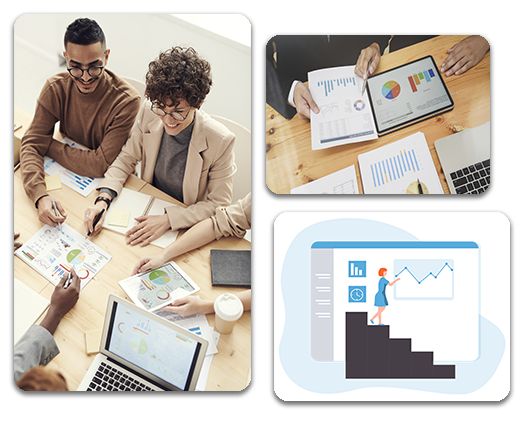
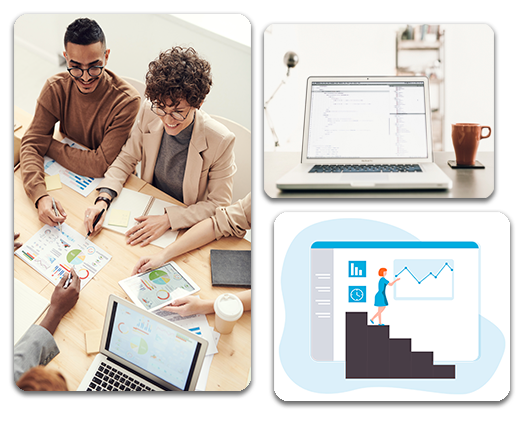
style: :art: Final design adjustments
Case studies page: Fixing pilar logo and applying some adjustments to the cards. Blog page: Fixing datwit logo.  About us page: Fixing the grid for mobile devices.  Services page: Changing image for the Data analysis block, it is the same as one used on Data visualization block right below.  Adding orange accents to the icons on hover for the card reveal section(homepage): front and back.  Adding  orange accent to the float button icon of the team section(homepage).  Add underline decoration on hover for the footer pages. Services page: Adding MD material boxed effect to the diagram. Case studies page: Fixing text distribution(back side) on the cards(Don't fit on smaller devices).

#33

diff --git a/layouts/casestudies/list.html b/layouts/casestudies/list.html
@@ -16,22 +16,26 @@
     </div> <!-------------/first row title----------------------------------------------------->
     <div class="row mr-1 mr-2">
       <!--listed images------------------------------------------------------------------------->
-      <div class="flip-container col s12 m3 l3" ontouchstart="this.classList.toggle('hover');">
       {{ range .Site.Data.product.pgtitle.productItem}}
-        <div class=" card flipper">
-          <div class=" card-image front">
-            <img src="{{ .image | absURL}}" alt="{{.title}}">
-          </div>   
-          <div class="back">
-            <a href=""><h3 class="card-title">{{ .title}}</h3></a>
-            <p class="case-studies-descrip">{{.content}}</p>
-            <div class="product-social">
-              <a href=""><i class="fa fa-2x fa-github"></i></a>
+      <div class=" col s12 m4 l4" id="card-container">
+        <div class="flip-container" ontouchstart="this.classList.toggle('hover');">
+        
+          <div class=" card flipper">
+            <div class=" card-image front">
+              <img src="{{ .image | absURL}}" alt="{{.title}}">
+            </div>   
+            <div class="back">
+              <a href=""><h3 class="card-title">{{ .title}}</h3></a>
+              <p class="case-studies-descrip">{{.content}}</p>
+              <div class="product-social">
+                <a href=""><i class="fa fa-2x fa-github"></i></a>
+              </div>
             </div>
           </div>
+       
         </div>
-      {{ end }} 
-      </div>
+    </div>
+    {{ end }} 
     </div><!--/listed images------------------------>
   </div>
 </section><!--? /products section---------------------------------------------------------------> 

diff --git a/themes/agico-hugo/assets/scss/templates/_card.scss b/themes/agico-hugo/assets/scss/templates/_card.scss
@@ -57,6 +57,15 @@
   h3{
     /* margin-top: 60px; */
     font-weight: bolder !important;
+
+    @media only screen and (max-width: 730px){
+      margin: 10px 0 5px 0;
+      font-size: 20px !important;
+    }
+    @media only screen and (max-width: 600px){
+      margin: 30px 0 10px 0;
+      font-size: 24px !important;
+    }
   }
   .product-social{
       text-align: center;
@@ -74,7 +83,10 @@
 .case-studies-descrip{
     line-height: 18px;
     font-size: 14px;
-    margin: 0 15px 10px 15px;
+    margin: 0 15px 0 15px;
+    @media only screen and (min-width: 601px){
+      margin: 0 10px 0 10px;
+    }  
 }
 
 /********************card reveal goals section homepage*********************************/
@@ -82,6 +94,16 @@
   line-height: 25px !important;
   display:flex !important;
   justify-content:space-between;
+
+  i{
+    &:active{
+      color: $secondary-color2 !important;
+    }
+    &:hover{
+      color: $secondary-color2 !important;
+    }
+  }
+
 }
 
 .card .card-reveal{
@@ -90,6 +112,15 @@
     line-height: 25px !important;
     display:flex !important;
     justify-content:space-between;
+  }
+  
+  i{
+    &:active{
+      color: $secondary-color2 !important;
+    }
+    &:hover{
+      color: $secondary-color2 !important;
+    }
   }
 
 }

diff --git a/layouts/_default/list.html b/layouts/_default/list.html
@@ -78,7 +78,7 @@
           {{ end }}<!-----------/blog post------------------->
 
           {{"<!-- pagination -->" | safeHTML }}
-          <div class="col s12 m12 l12" >
+          <div class="col s12 m12 l12">
             {{ $paginator := .Paginator }}
             <!-- Number of links either side of the current page. -->
             {{ $adjacent_links := 2 }}
@@ -91,6 +91,7 @@
             <!-- If there's more than one page. -->
             {{ if gt $paginator.TotalPages 1 }}
             <nav aria-label="Page navigation" id="pagi">
+              <div id="pagi-navi">
               <ul class="pagination">
                 <!-- First page. -->
                 {{ if ne $paginator.PageNumber 1 }}
@@ -163,6 +164,7 @@
                 </li>
                 {{ end }}
               </ul>
+            </div> 
             </nav>
             {{ end }}
           </div>

diff --git a/themes/agico-hugo/static/plugins/wittylytics/script.js b/themes/agico-hugo/static/plugins/wittylytics/script.js
@@ -54,6 +54,13 @@ document.addEventListener('DOMContentLoaded', function() {
   var instances = M.Slider.init(elems, options);
 });
 
+//material box effect 
+document.addEventListener('DOMContentLoaded', function() {
+  var options = [inDuration = '275'];
+  var elems = document.querySelectorAll('.materialboxed');
+  var instances = M.Materialbox.init(elems, options);
+});
+
 
 /* function changedValue() {
   let text = document.getElementById("textarea1");

diff --git a/themes/agico-hugo/assets/scss/templates/_sec-level-pages.scss b/themes/agico-hugo/assets/scss/templates/_sec-level-pages.scss
@@ -60,10 +60,16 @@
       padding-top: 100px !important;
     }
   }
+#card-container{
+  display: flex;
+  justify-content: center;
+}
 /****************************************about us page********************************************/
 #comp-cont{
+  @media only screen and (min-width: 601px) {
     display: flex;
     align-items: center;
+  } 
 }    
 //github icon company
 .text-reset {

diff --git a/themes/agico-hugo/assets/scss/templates/_navigation.scss b/themes/agico-hugo/assets/scss/templates/_navigation.scss
@@ -231,14 +231,20 @@ margin-top: 5px;
   align-items: center;
   background-color: white;
   box-shadow: none;
-
+ 
   .hover-ripple{
     &:hover{
     background-color:transparent ;
     border-radius: 50% !important;
     }
+  }  
+}
+
+#pagi-navi{
+  @include desktop {
+    display: flex !important;
+    justify-content: center !important;   
   }
-  
 }
 
 

diff --git a/layouts/services/list.html b/layouts/services/list.html
@@ -56,7 +56,7 @@
       <h6 class="mr-2">{{.subtitle}}</h6>
     </div>
     <div><!---------------------------diagram--------------------------------->
-      <img src="{{.img | absURL }}" alt="{{.title}}">
+      <img class="materialboxed" src="{{.img | absURL }}" alt="{{.title}}">
     </div>
     {{end}}
   </div> 

diff --git a/themes/agico-hugo/assets/scss/_buttons.scss b/themes/agico-hugo/assets/scss/_buttons.scss
@@ -62,6 +62,11 @@
 #floatc{
   background-color: $primary-color;
   margin-left: 30px;
+  i{
+    &:hover{
+      color: $secondary-color2;
+    }
+  }
 }
 
 /*********************************banner area ********************************************/

diff --git a/themes/agico-hugo/assets/scss/templates/_footer.scss b/themes/agico-hugo/assets/scss/templates/_footer.scss
@@ -29,6 +29,13 @@
     font-size: 19px;
   }
 }
+.list-unstyled{
+  a{
+    &:hover{
+    text-decoration: underline ;
+    }
+  }
+}
 
 // email & icon aligntment
 #i-email{

diff --git a/themes/agico-hugo/assets/scss/_material.scss b/themes/agico-hugo/assets/scss/_material.scss
@@ -107,3 +107,6 @@ textarea {
         }
     }
 }
+.materialboxed{
+    background-color: white;
+}
